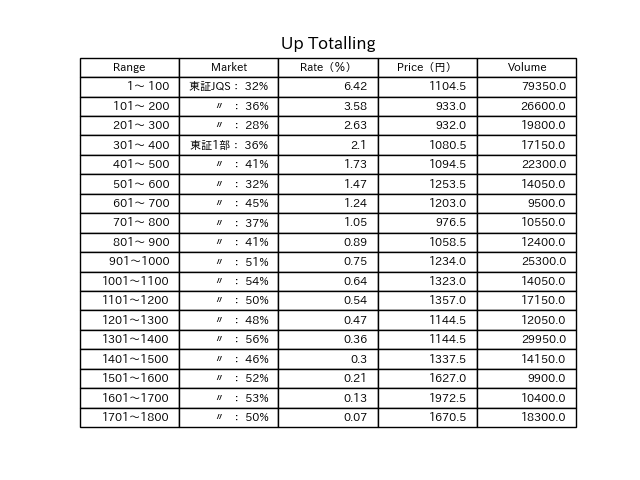
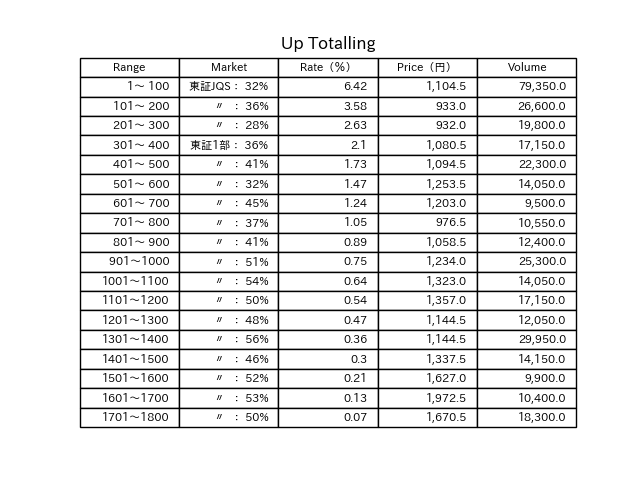
update

diff --git a/totalling.py b/totalling.py
@@ -90,7 +90,7 @@ for splited_index, splited in enumerate(splited_list):
         oldest.append(oldest_text)
 
         save_market = f"{most_num_market}：{rate_market}%"
-        result.append([f"{start}〜{end}", save_market, rate_median, price_median, volumes_median])
+        result.append([f"{start}〜{end}", save_market, rate_median, f"{price_median:,}", f"{volumes_median:,}"])
 
     df = pd.DataFrame(result, columns=columns)
 
